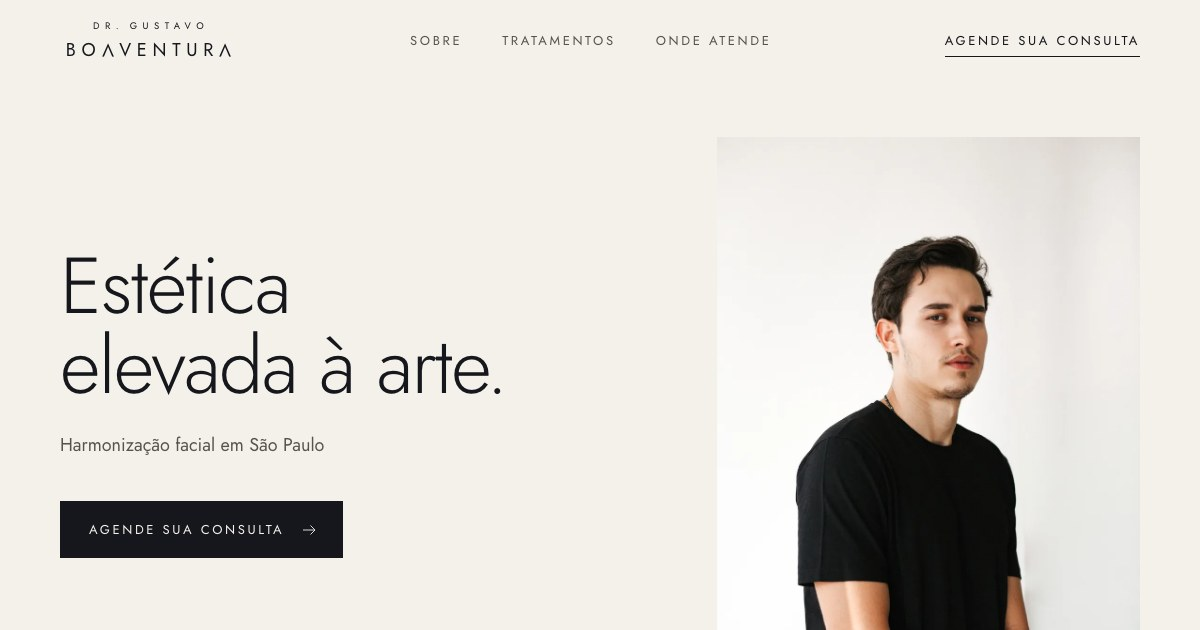
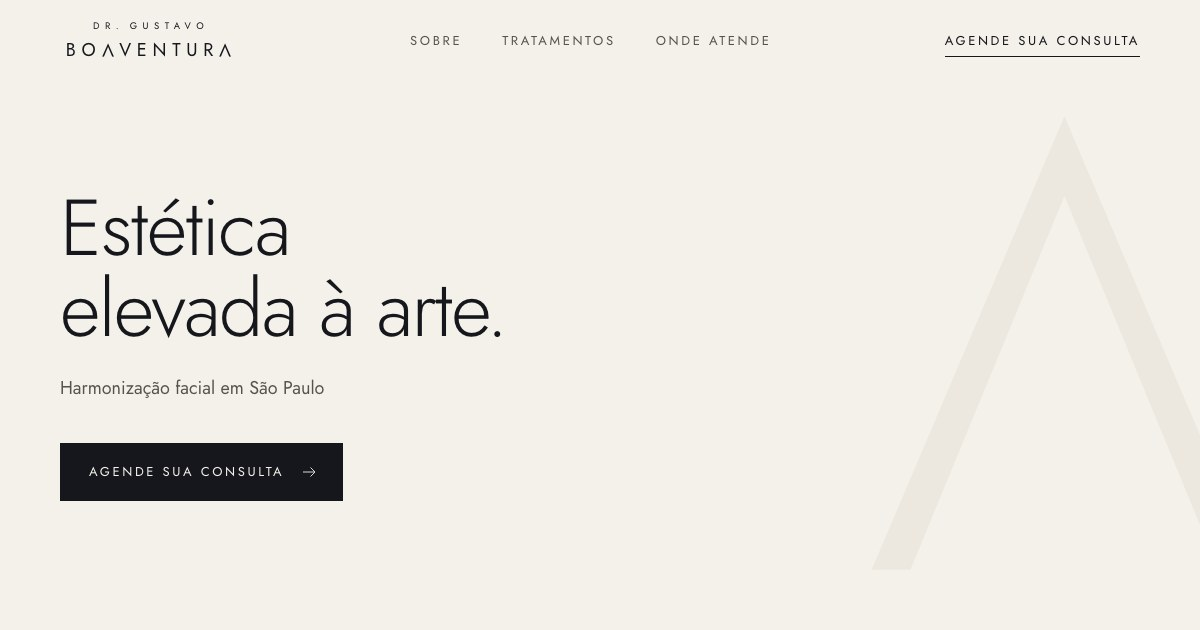
Tira a foto do Dr. Gustavo do site
A pedido do Fernando, a abertura fica só com texto. O Λ gigante, cortado pela
borda e quase da cor do fundo, passa do Sobre para a abertura e faz o peso que
era da foto. As fotos recortadas saem do projeto e a imagem de compartilhamento
foi refeita sem elas.

Changed region(s): [[0.6475, 0.3619, 0.8633, 1.0], [0.0308, 0.3016, 0.4317, 0.6333], [0.0308, 0.6937, 0.3083, 0.9048]]

diff --git a/public/previews/dr-gustavo-boaventura/estilo.css b/public/previews/dr-gustavo-boaventura/estilo.css
@@ -71,43 +71,37 @@ p { margin: 0; }
 .btn.claro:hover { background: transparent; color: var(--perolada); }
 
 /* Abertura */
+/* Abertura só com texto: o Λ gigante, cortado pela borda e quase da cor do fundo, faz o peso da composição. */
 .abertura {
-  display: grid; gap: 48px; align-items: center;
-  max-width: var(--largura); margin: 0 auto;
-  padding: clamp(28px, 5vw, 56px) var(--borda) clamp(72px, 9vw, 120px);
+  position: relative; overflow: hidden;
+  display: grid; align-content: center;
+  padding: clamp(56px, 12vw, 96px) max(var(--borda), (100% - var(--largura)) / 2 + var(--borda)) clamp(72px, 9vw, 120px);
 }
+.abertura::after {
+  content: "V" / ""; position: absolute; right: -.1em; top: 50%;
+  font: 300 clamp(320px, 52vw, 720px)/1 Jost, sans-serif; color: var(--marfim-fundo);
+  transform: translateY(-50%) rotate(180deg); pointer-events: none;
+}
+.abertura-texto { position: relative; z-index: 1; }
 .abertura h1 {
   font-size: clamp(2.8rem, 6.6vw, 5.6rem); line-height: 1.02; letter-spacing: -.02em;
-  text-wrap: balance;
+  text-wrap: balance; max-width: 14ch;
 }
 .sub { margin: 24px 0 40px; font-size: clamp(1.08rem, 1.5vw, 1.3rem); color: var(--tinta-suave); }
-.retrato { margin: 0; }
-.retrato img { width: 100%; aspect-ratio: 4 / 5; object-fit: cover; }
-@media (min-width: 900px) {
-  .abertura { grid-template-columns: 1.15fr .85fr; gap: clamp(48px, 7vw, 120px); min-height: calc(100svh - 92px); }
-}
+@media (min-width: 900px) { .abertura { min-height: calc(100svh - 92px); } }
 
-/* O único movimento da página: a abertura chega. O texto já nasce visível, só ganha foco. */
+/* O único movimento da página: o texto da abertura chega. Ele já nasce visível, só ganha foco. */
 @media (prefers-reduced-motion: no-preference) {
   .abertura h1, .sub, .abertura .btn { animation: foco 1.2s var(--sai) both; }
   .sub { animation-delay: .1s; }
   .abertura .btn { animation-delay: .2s; }
-  .retrato img { animation: revela 1.6s var(--sai) .05s both; }
 }
 @keyframes foco { from { transform: translateY(14px); filter: blur(5px); opacity: .35; } }
-@keyframes revela { from { clip-path: inset(100% 0 0 0); } to { clip-path: inset(0); } }
 
 /* Seções */
 .miolo { position: relative; z-index: 1; max-width: var(--largura); margin: 0 auto; padding: clamp(88px, 12vw, 168px) var(--borda); }
 h2 { font-size: clamp(2.1rem, 4.4vw, 3.6rem); line-height: 1.08; letter-spacing: -.015em; text-wrap: balance; max-width: 16ch; }
 
-.sobre { position: relative; overflow: hidden; }
-/* Λ gigante cortado pela borda, quase da cor do fundo. */
-.sobre::after {
-  content: "V" / ""; position: absolute; right: -.1em; top: 50%;
-  font: 300 clamp(320px, 52vw, 720px)/1 Jost, sans-serif; color: var(--marfim-fundo);
-  transform: translateY(-50%) rotate(180deg); pointer-events: none;
-}
 .sobre h2 { margin-bottom: 32px; }
 .destaque { max-width: 26ch; margin-bottom: 20px; font-size: clamp(1.35rem, 2.3vw, 1.8rem); line-height: 1.4; font-weight: 300; }
 .sobre p:not(.destaque) { max-width: 46ch; color: var(--tinta-suave); }

diff --git a/public/previews/dr-gustavo-boaventura/index.html b/public/previews/dr-gustavo-boaventura/index.html
@@ -64,12 +64,6 @@
       <p class="sub">Harmonização facial em São Paulo</p>
       <a class="btn" href="https://wa.me/5531996671116?text=Ol%C3%A1%2C%20vim%20pelo%20site%20e%20quero%20agendar%20uma%20consulta%20com%20o%20Dr.%20Gustavo%20Boaventura." target="_blank" rel="noopener">Agende sua consulta<svg viewBox="0 0 24 24" aria-hidden="true"><path d="M4 12h15M14 6l6 6-6 6" fill="none" stroke="currentColor" stroke-width="1.2"/></svg></a>
     </div>
-    <figure class="retrato">
-      <img src="/previews/dr-gustavo-boaventura/img/gustavo-900.webp"
-        srcset="/previews/dr-gustavo-boaventura/img/gustavo-900.webp 900w, /previews/dr-gustavo-boaventura/img/gustavo-1600.webp 1600w"
-        sizes="(min-width: 900px) 38vw, 100vw" width="1600" height="2000" fetchpriority="high"
-        alt="Dr. Gustavo Boaventura, de camiseta preta, em fundo claro">
-    </figure>
   </section>
 
   <section class="sobre" id="sobre" aria-labelledby="t-sobre">

diff --git a/docs/superpowers/specs/2026-11-26-site-dr-gustavo-boaventura-design.md b/docs/superpowers/specs/2026-11-26-site-dr-gustavo-boaventura-design.md
@@ -68,3 +68,7 @@ O Fernando falou em resultado (público e ação), não em ferramenta; a escolha
 
 - Texto das seções no tom da marca, sem inventar fatos.
 - Layout, movimento, versão de celular, acessibilidade e a imagem de compartilhamento.
+
+## Mudanças depois da publicação
+
+- 26/11/2026: a pedido do Fernando, a foto do Gustavo saiu do site. A abertura ficou só com texto, e o Λ gigante, cortado pela borda e quase da cor do fundo, passou do Sobre para a abertura. As fotos recortadas foram apagadas.
